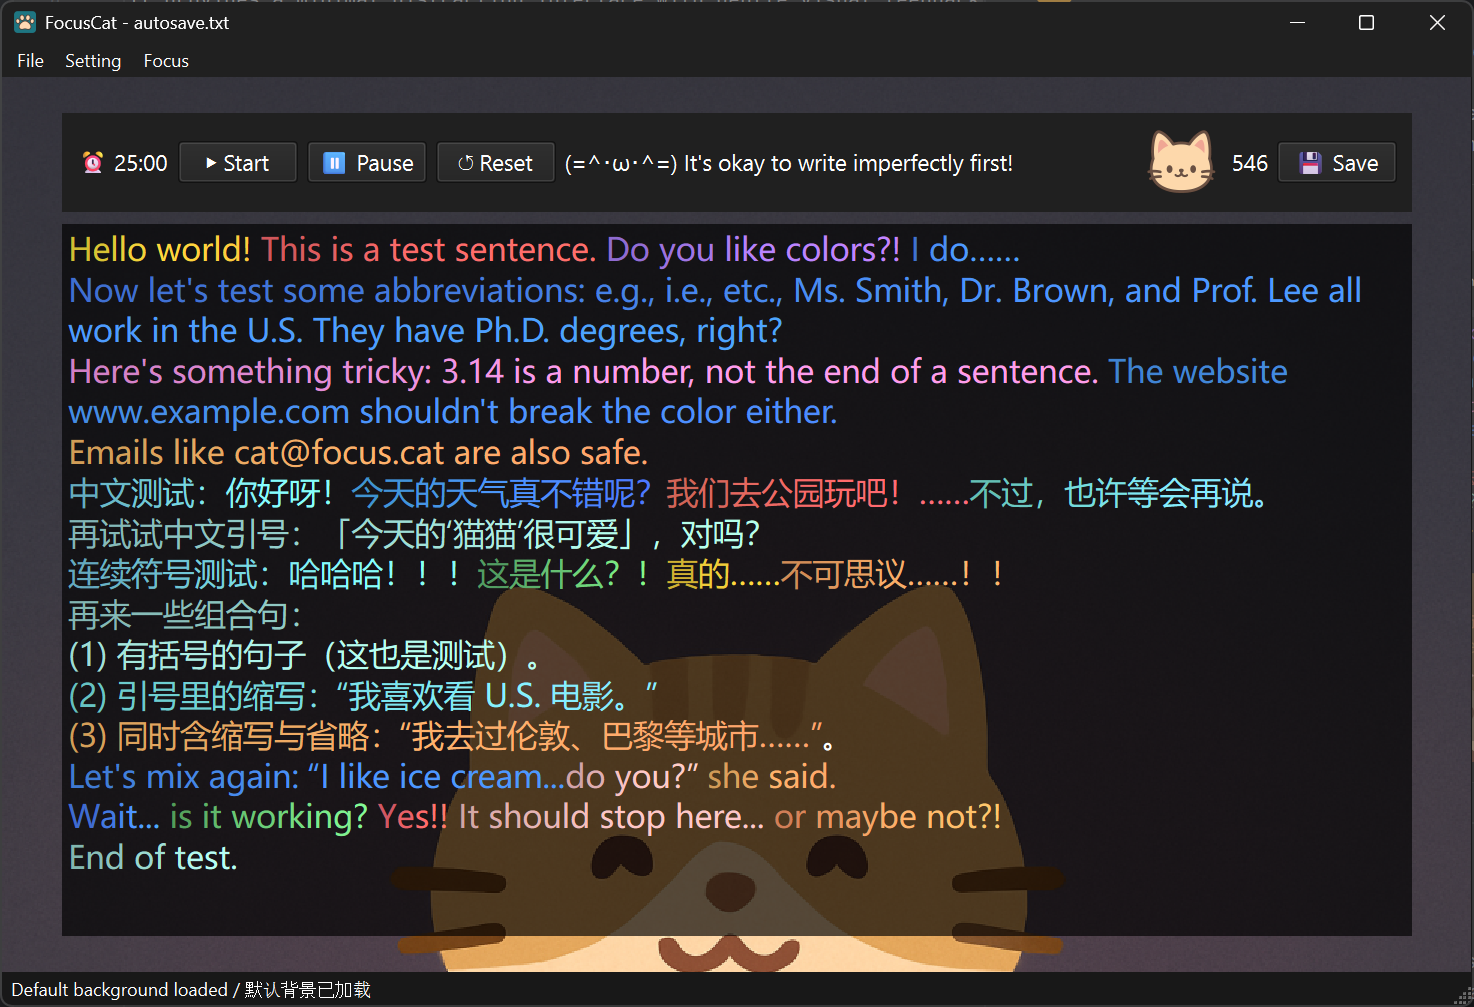
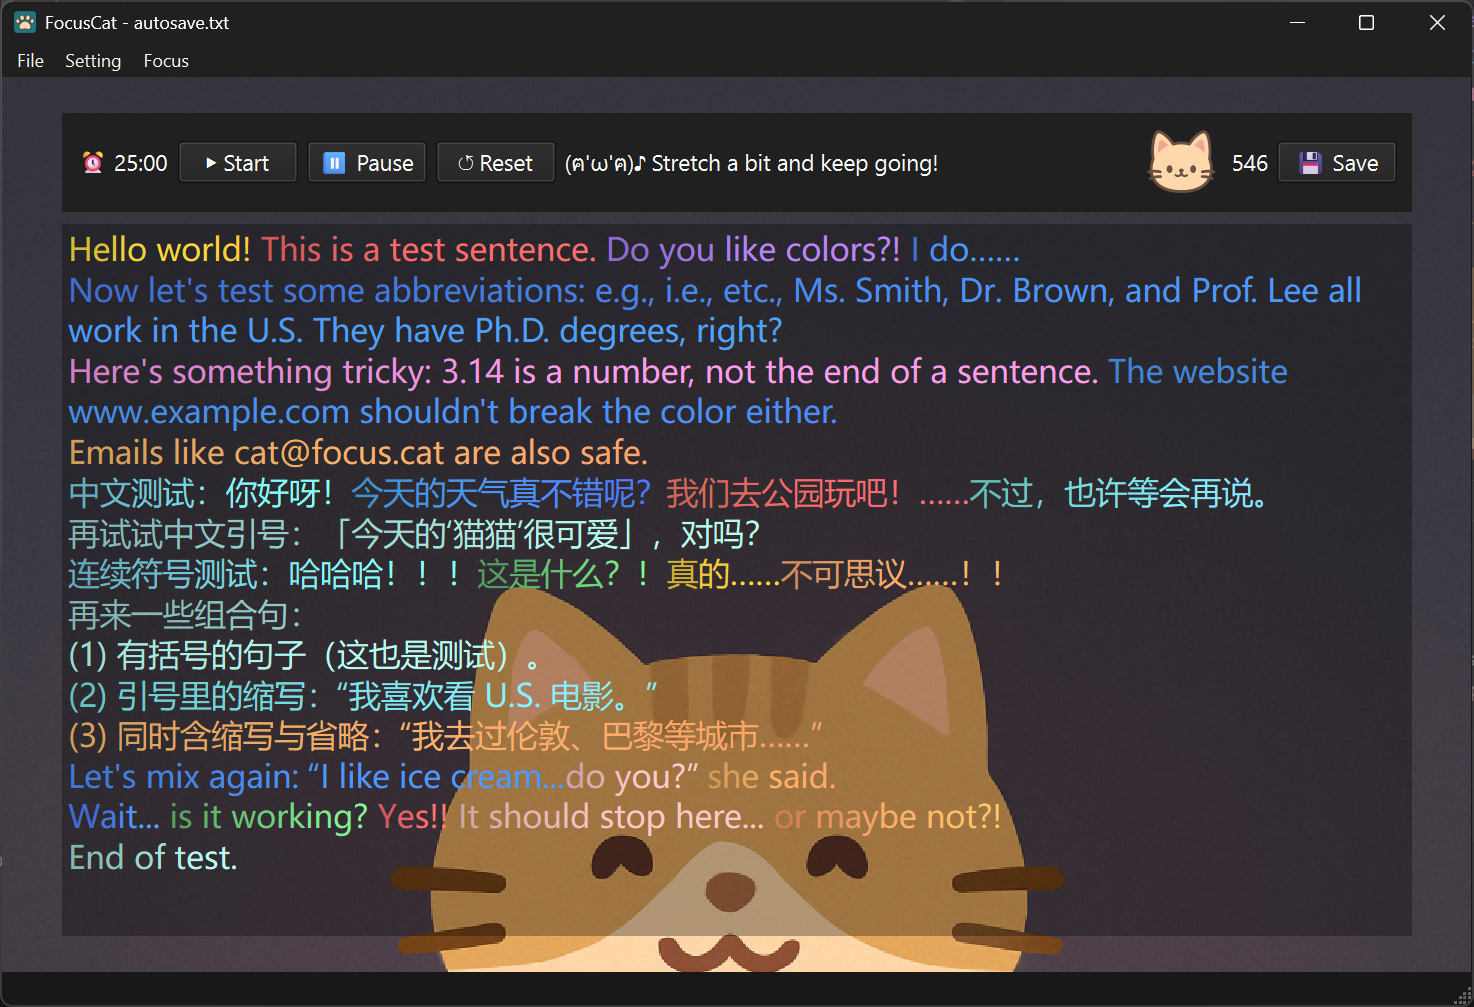
1.2.1

diff --git a/focuscat_qt.py b/focuscat_qt.py
@@ -99,7 +99,7 @@ class ShadedTextEdit(QtWidgets.QTextEdit):
 
         # --- overlay params / 黑底参数 ---
         self.overlay_enabled = True      # 是否启用
-        self.overlay_alpha   = 170       # 透明度 0~255
+        self.overlay_alpha   = 77       # 透明度 0~255
         self.overlay_radius  = 8         # 圆角
         self.overlay_margin  = 8         # 视口四边内缩（避免贴边）
         self.overlay_extra   = 18        # 在可编辑区域基础上再向外扩一圈（保证更大于文字区域）

diff --git a/README.md b/README.md
@@ -18,19 +18,33 @@ It provides a minimal distraction interface with gentle visual feedback and enco
 
 ---
 
-## ⚙ How to Run
+## ⚙ How to Run (Windows)
 
-1. Make sure you have **Python 3.9+** and the following dependencies installed:
 
-   ```bash
-   pip install PySide6
-   ```
+[//]: # (1&#41; **Create & activate a virtual environment**)
 
-2. Run the program:
 
-   ```bash
-   python focuscat_qt.py
-   ```
+1. **Install dependencies**
+
+```powershell
+pip install -r requirements.txt
+```
+
+2. **Run the app**
+
+```powershell
+python focuscat_qt.py
+```
+
+3. **(Optional) Run tests**
+
+```powershell
+python -m pytest -q test_focuscat.py
+```
+
+### Notes
+
+* If you are using PyCharm, you can also right-click the test file and choose **Run ‘pytest in test_focuscat.py’** to run tests.
 
 ---
 
